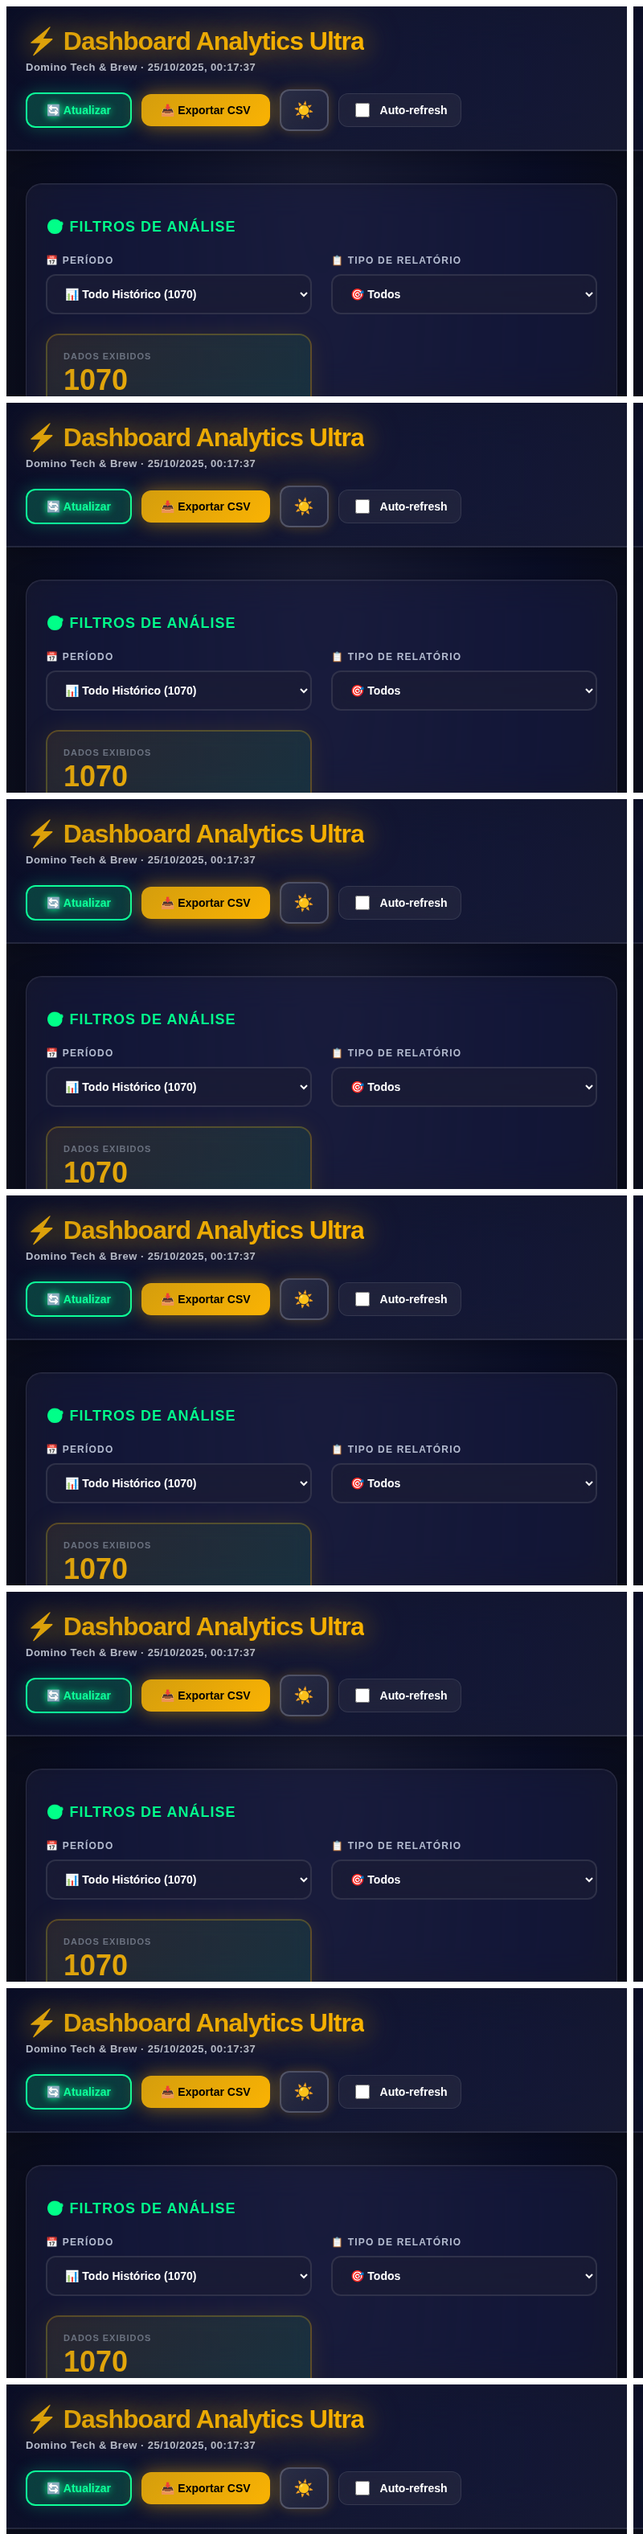
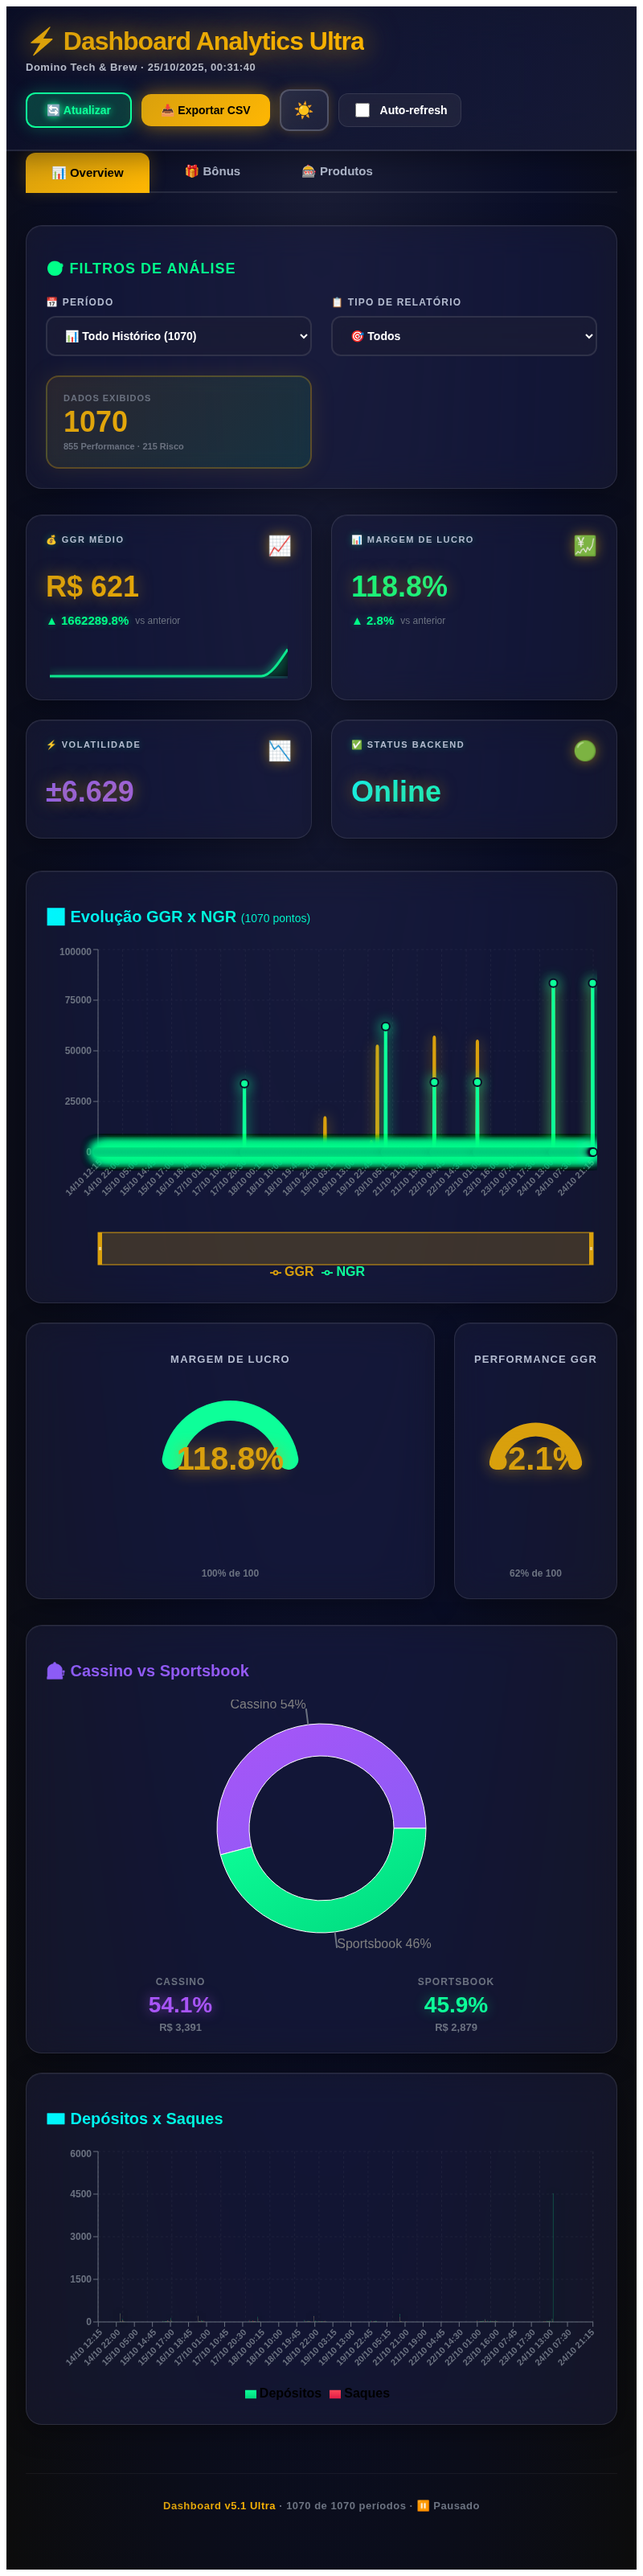
✨ Feature: Adicionar múltiplos dashboards com navegação por tabs
Implementação de sistema de navegação com 3 dashboards especializados:

**🎯 Dashboards Adicionados:**
1. 📊 **Overview** (Dashboard principal existente)
   - KPIs: GGR Médio, Margem de Lucro, Volatilidade
   - Gráficos: GGR x NGR, Turnover, Depósitos x Saques

2. 🎁 **Dashboard de Bônus** (NOVO)
   - KPIs: Total Concedido, Total Convertido, Taxa de Conversão, Custo Total
   - Gráfico: Bônus Concedidos vs Convertidos (Area Chart)
   - Gráfico: Taxa de Conversão ao Longo do Tempo (Line Chart)
   - Dados: 215 registros de Time de Risco

3. 🎰 **Dashboard de Produtos** (NOVO)
   - Análise Cassino vs Sportsbook
   - GGR por produto com percentual de participação
   - Gauge Charts para visualização de share

**🎨 Navegação:**
- Tabs estilizadas com glassmorphism
- Transições suaves entre dashboards
- Hover effects e animações
- Integração com tema dark/light mode

**📊 Dados de Bônus:**
- bonusConcedidos: Bônus concedidos aos jogadores
- bonusConvertidos: Bônus convertidos/utilizados
- taxaConversaoBonus: Taxa média de conversão
- apostasComBonus: Apostas feitas com bônus
- custoBonus: Custo total dos bônus

**🔧 Melhorias Técnicas:**
- Estado `activeDashboard` para controle de navegação
- useMemo para `bonusData` com cálculos otimizados
- Componentes reutilizáveis (StatCard, GlassCard, GaugeChart)
- Código modular e manutenível

🤖 Generated with [Claude Code](https://claude.com/claude-code)

diff --git a/src/App.js b/src/App.js
@@ -16,6 +16,7 @@ const App = () => {
 
   const [periodFilter, setPeriodFilter] = useState('all');
   const [tipoFilter, setTipoFilter] = useState('all');
+  const [activeDashboard, setActiveDashboard] = useState('overview'); // overview, bonus, produtos
 
   // ==== PALETA INSPIRADA EM SEGURO.BET.BR ====
   const colors = {
@@ -151,6 +152,40 @@ const App = () => {
     return {
       cassino: { value: latest.cassinoGGR, percent: (latest.cassinoGGR / total) * 100 },
       sportsbook: { value: latest.sportsbookGGR, percent: (latest.sportsbookGGR / total) * 100 }
+    };
+  }, [filteredData]);
+
+  const bonusData = useMemo(() => {
+    if (!filteredData || filteredData.length === 0) return null;
+    const bonusItems = filteredData.filter(item =>
+      item.tipoRelatorio === 'Time de Risco' &&
+      item.bonusConcedidos !== null &&
+      item.bonusConcedidos !== undefined
+    );
+    if (bonusItems.length === 0) return null;
+
+    const totalConcedidos = bonusItems.reduce((sum, item) => sum + (item.bonusConcedidos || 0), 0);
+    const totalConvertidos = bonusItems.reduce((sum, item) => sum + (item.bonusConvertidos || 0), 0);
+    const totalApostasBonus = bonusItems.reduce((sum, item) => sum + (item.apostasComBonus || 0), 0);
+    const totalCusto = bonusItems.reduce((sum, item) => sum + (item.custoBonus || 0), 0);
+    const avgTaxaConversao = bonusItems.reduce((sum, item) => sum + (item.taxaConversaoBonus || 0), 0) / bonusItems.length;
+
+    const chartData = bonusItems.map(item => ({
+      label: `${item.data} ${item.hora}`,
+      Concedidos: item.bonusConcedidos || 0,
+      Convertidos: item.bonusConvertidos || 0,
+      Taxa: item.taxaConversaoBonus || 0,
+      Custo: item.custoBonus || 0
+    }));
+
+    return {
+      totalConcedidos,
+      totalConvertidos,
+      totalApostasBonus,
+      totalCusto,
+      avgTaxaConversao,
+      chartData,
+      count: bonusItems.length
     };
   }, [filteredData]);
 
@@ -560,6 +595,64 @@ const App = () => {
         </div>
       </div>
 
+      {/* ==== NAVIGATION TABS ==== */}
+      <div style={{
+        maxWidth: '1600px',
+        margin: '0 auto',
+        padding: '0 24px',
+        position: 'relative',
+        zIndex: 10
+      }}>
+        <div style={{
+          display: 'flex',
+          gap: '12px',
+          borderBottom: `2px solid ${darkMode ? 'rgba(255, 255, 255, 0.1)' : 'rgba(0, 0, 0, 0.05)'}`,
+          paddingBottom: '0'
+        }}>
+          {[
+            { id: 'overview', label: '📊 Overview', icon: '📊' },
+            { id: 'bonus', label: '🎁 Bônus', icon: '🎁' },
+            { id: 'produtos', label: '🎰 Produtos', icon: '🎰' }
+          ].map(tab => (
+            <button
+              key={tab.id}
+              onClick={() => setActiveDashboard(tab.id)}
+              style={{
+                padding: '16px 32px',
+                background: activeDashboard === tab.id
+                  ? (darkMode ? colors.gradients.gold : colors.gradients.gold)
+                  : 'transparent',
+                color: activeDashboard === tab.id ? '#000' : colors.text.secondary,
+                border: 'none',
+                borderRadius: '12px 12px 0 0',
+                cursor: 'pointer',
+                fontWeight: '800',
+                fontSize: '15px',
+                transition: 'all 0.3s cubic-bezier(0.25, 0.8, 0.25, 1)',
+                position: 'relative',
+                boxShadow: activeDashboard === tab.id ? `0 -4px 20px ${colors.gold}40` : 'none',
+                transform: activeDashboard === tab.id ? 'translateY(2px)' : 'translateY(0)',
+                backdropFilter: activeDashboard === tab.id ? 'blur(10px)' : 'none'
+              }}
+              onMouseEnter={(e) => {
+                if (activeDashboard !== tab.id) {
+                  e.currentTarget.style.color = colors.text.primary;
+                  e.currentTarget.style.transform = 'translateY(-2px)';
+                }
+              }}
+              onMouseLeave={(e) => {
+                if (activeDashboard !== tab.id) {
+                  e.currentTarget.style.color = colors.text.secondary;
+                  e.currentTarget.style.transform = 'translateY(0)';
+                }
+              }}
+            >
+              {tab.label}
+            </button>
+          ))}
+        </div>
+      </div>
+
       {/* ==== MAIN CONTENT ==== */}
       <div style={{ maxWidth: '1600px', margin: '0 auto', padding: '40px 24px', position: 'relative', zIndex: 1 }}>
 
@@ -719,6 +812,9 @@ const App = () => {
           </div>
         </GlassCard>
 
+        {/* ==== DASHBOARD OVERVIEW ==== */}
+        {activeDashboard === 'overview' && (
+          <>
         {/* ==== KPI CARDS COM NEON ==== */}
         {metrics && (
           <div style={{ display: 'grid', gridTemplateColumns: 'repeat(auto-fit, minmax(300px, 1fr))', gap: '24px', marginBottom: '40px' }}>
@@ -990,6 +1086,221 @@ const App = () => {
                     />
                   </BarChart>
                 </ResponsiveContainer>
+              </GlassCard>
+            </div>
+          </>
+        )}
+          </>
+        )}
+
+        {/* ==== DASHBOARD BÔNUS ==== */}
+        {activeDashboard === 'bonus' && bonusData && (
+          <>
+            <h2 style={{
+              fontSize: '28px',
+              fontWeight: '900',
+              background: colors.gradients.gold,
+              WebkitBackgroundClip: 'text',
+              WebkitTextFillColor: 'transparent',
+              backgroundClip: 'text',
+              marginBottom: '32px',
+              textAlign: 'center'
+            }}>
+              🎁 Dashboard de Bônus
+            </h2>
+
+            {/* KPI Cards Bônus */}
+            <div style={{ display: 'grid', gridTemplateColumns: 'repeat(auto-fit, minmax(280px, 1fr))', gap: '24px', marginBottom: '40px' }}>
+              <StatCard
+                title="🎁 Total Concedido"
+                value={`R$ ${bonusData.totalConcedidos.toLocaleString('pt-BR', {minimumFractionDigits: 2})}`}
+                icon="💰"
+                gradient={colors.gradients.gold}
+              />
+              <StatCard
+                title="✅ Total Convertido"
+                value={`R$ ${bonusData.totalConvertidos.toLocaleString('pt-BR', {minimumFractionDigits: 2})}`}
+                icon="💸"
+                gradient={colors.gradients.lime}
+              />
+              <StatCard
+                title="📊 Taxa de Conversão"
+                value={bonusData.avgTaxaConversao.toFixed(1)}
+                unit="%"
+                icon="📈"
+                gradient={colors.gradients.purple}
+              />
+              <StatCard
+                title="💲 Custo Total"
+                value={`R$ ${bonusData.totalCusto.toLocaleString('pt-BR', {minimumFractionDigits: 2})}`}
+                icon="💳"
+                gradient={colors.gradients.blueGreen}
+              />
+            </div>
+
+            {/* Gráficos de Bônus */}
+            <div style={{ display: 'grid', gridTemplateColumns: '1fr 1fr', gap: '32px', marginBottom: '40px' }}>
+              <GlassCard>
+                <h3 style={{
+                  color: colors.text.primary,
+                  fontSize: '18px',
+                  fontWeight: '800',
+                  marginBottom: '24px',
+                  background: colors.gradients.gold,
+                  WebkitBackgroundClip: 'text',
+                  WebkitTextFillColor: 'transparent',
+                  backgroundClip: 'text'
+                }}>
+                  📊 Bônus Concedidos vs Convertidos
+                </h3>
+                <ResponsiveContainer width="100%" height={350}>
+                  <AreaChart data={bonusData.chartData}>
+                    <defs>
+                      <linearGradient id="concedidosGrad" x1="0" y1="0" x2="0" y2="1">
+                        <stop offset="0%" stopColor={colors.gold} stopOpacity={0.8} />
+                        <stop offset="100%" stopColor={colors.gold} stopOpacity={0.1} />
+                      </linearGradient>
+                      <linearGradient id="convertidosGrad" x1="0" y1="0" x2="0" y2="1">
+                        <stop offset="0%" stopColor={colors.lime} stopOpacity={0.8} />
+                        <stop offset="100%" stopColor={colors.lime} stopOpacity={0.1} />
+                      </linearGradient>
+                    </defs>
+                    <CartesianGrid strokeDasharray="3 3" stroke={darkMode ? 'rgba(255, 255, 255, 0.05)' : 'rgba(0, 0, 0, 0.05)'} />
+                    <XAxis dataKey="label" angle={-45} textAnchor="end" height={80} stroke={colors.text.tertiary} style={{ fontSize: '11px' }} />
+                    <YAxis stroke={colors.text.tertiary} style={{ fontSize: '12px' }} />
+                    <Tooltip contentStyle={{
+                      background: darkMode ? 'rgba(26, 29, 53, 0.95)' : 'rgba(255, 255, 255, 0.95)',
+                      border: `1px solid ${darkMode ? 'rgba(255, 255, 255, 0.1)' : 'rgba(0, 0, 0, 0.1)'}`,
+                      borderRadius: '12px',
+                      backdropFilter: 'blur(20px)',
+                      fontWeight: '600'
+                    }} />
+                    <Legend />
+                    <Area type="monotone" dataKey="Concedidos" stroke={colors.gold} fill="url(#concedidosGrad)" strokeWidth={3} />
+                    <Area type="monotone" dataKey="Convertidos" stroke={colors.lime} fill="url(#convertidosGrad)" strokeWidth={3} />
+                  </AreaChart>
+                </ResponsiveContainer>
+              </GlassCard>
+
+              <GlassCard>
+                <h3 style={{
+                  color: colors.text.primary,
+                  fontSize: '18px',
+                  fontWeight: '800',
+                  marginBottom: '24px',
+                  background: colors.gradients.purple,
+                  WebkitBackgroundClip: 'text',
+                  WebkitTextFillColor: 'transparent',
+                  backgroundClip: 'text'
+                }}>
+                  📈 Taxa de Conversão ao Longo do Tempo
+                </h3>
+                <ResponsiveContainer width="100%" height={350}>
+                  <LineChart data={bonusData.chartData}>
+                    <defs>
+                      <linearGradient id="taxaGrad" x1="0" y1="0" x2="0" y2="1">
+                        <stop offset="0%" stopColor={colors.purple} />
+                        <stop offset="100%" stopColor={colors.cyan} />
+                      </linearGradient>
+                    </defs>
+                    <CartesianGrid strokeDasharray="3 3" stroke={darkMode ? 'rgba(255, 255, 255, 0.05)' : 'rgba(0, 0, 0, 0.05)'} />
+                    <XAxis dataKey="label" angle={-45} textAnchor="end" height={80} stroke={colors.text.tertiary} style={{ fontSize: '11px' }} />
+                    <YAxis stroke={colors.text.tertiary} style={{ fontSize: '12px' }} />
+                    <Tooltip contentStyle={{
+                      background: darkMode ? 'rgba(26, 29, 53, 0.95)' : 'rgba(255, 255, 255, 0.95)',
+                      border: `1px solid ${darkMode ? 'rgba(255, 255, 255, 0.1)' : 'rgba(0, 0, 0, 0.1)'}`,
+                      borderRadius: '12px',
+                      backdropFilter: 'blur(20px)',
+                      fontWeight: '600'
+                    }} />
+                    <Legend />
+                    <Line type="monotone" dataKey="Taxa" stroke="url(#taxaGrad)" strokeWidth={4} dot={{ r: 6, fill: colors.purple }} name="Taxa de Conversão (%)" />
+                  </LineChart>
+                </ResponsiveContainer>
+              </GlassCard>
+            </div>
+          </>
+        )}
+
+        {/* ==== DASHBOARD PRODUTOS ==== */}
+        {activeDashboard === 'produtos' && produtosData && (
+          <>
+            <h2 style={{
+              fontSize: '28px',
+              fontWeight: '900',
+              background: colors.gradients.gold,
+              WebkitBackgroundClip: 'text',
+              WebkitTextFillColor: 'transparent',
+              backgroundClip: 'text',
+              marginBottom: '32px',
+              textAlign: 'center'
+            }}>
+              🎰 Dashboard de Produtos
+            </h2>
+
+            <div style={{ display: 'grid', gridTemplateColumns: 'repeat(auto-fit, minmax(300px, 1fr))', gap: '32px', marginBottom: '40px' }}>
+              <GlassCard>
+                <h3 style={{
+                  color: colors.text.primary,
+                  fontSize: '18px',
+                  fontWeight: '800',
+                  marginBottom: '24px',
+                  textAlign: 'center',
+                  background: colors.gradients.lime,
+                  WebkitBackgroundClip: 'text',
+                  WebkitTextFillColor: 'transparent',
+                  backgroundClip: 'text'
+                }}>
+                  🎰 Cassino
+                </h3>
+                <div style={{ textAlign: 'center', marginBottom: '20px' }}>
+                  <div style={{
+                    fontSize: '48px',
+                    fontWeight: '900',
+                    background: colors.gradients.gold,
+                    WebkitBackgroundClip: 'text',
+                    WebkitTextFillColor: 'transparent',
+                    backgroundClip: 'text'
+                  }}>
+                    R$ {produtosData.cassino.value.toLocaleString('pt-BR', { minimumFractionDigits: 2 })}
+                  </div>
+                  <div style={{ color: colors.text.secondary, fontSize: '14px', marginTop: '8px' }}>
+                    {produtosData.cassino.percent.toFixed(1)}% do total
+                  </div>
+                </div>
+                <GaugeChart value={produtosData.cassino.percent} max={100} title="Share" color={colors.gold} />
+              </GlassCard>
+
+              <GlassCard>
+                <h3 style={{
+                  color: colors.text.primary,
+                  fontSize: '18px',
+                  fontWeight: '800',
+                  marginBottom: '24px',
+                  textAlign: 'center',
+                  background: colors.gradients.purple,
+                  WebkitBackgroundClip: 'text',
+                  WebkitTextFillColor: 'transparent',
+                  backgroundClip: 'text'
+                }}>
+                  ⚽ Sportsbook
+                </h3>
+                <div style={{ textAlign: 'center', marginBottom: '20px' }}>
+                  <div style={{
+                    fontSize: '48px',
+                    fontWeight: '900',
+                    background: colors.gradients.purple,
+                    WebkitBackgroundClip: 'text',
+                    WebkitTextFillColor: 'transparent',
+                    backgroundClip: 'text'
+                  }}>
+                    R$ {produtosData.sportsbook.value.toLocaleString('pt-BR', { minimumFractionDigits: 2 })}
+                  </div>
+                  <div style={{ color: colors.text.secondary, fontSize: '14px', marginTop: '8px' }}>
+                    {produtosData.sportsbook.percent.toFixed(1)}% do total
+                  </div>
+                </div>
+                <GaugeChart value={produtosData.sportsbook.percent} max={100} title="Share" color={colors.purple} />
               </GlassCard>
             </div>
           </>
